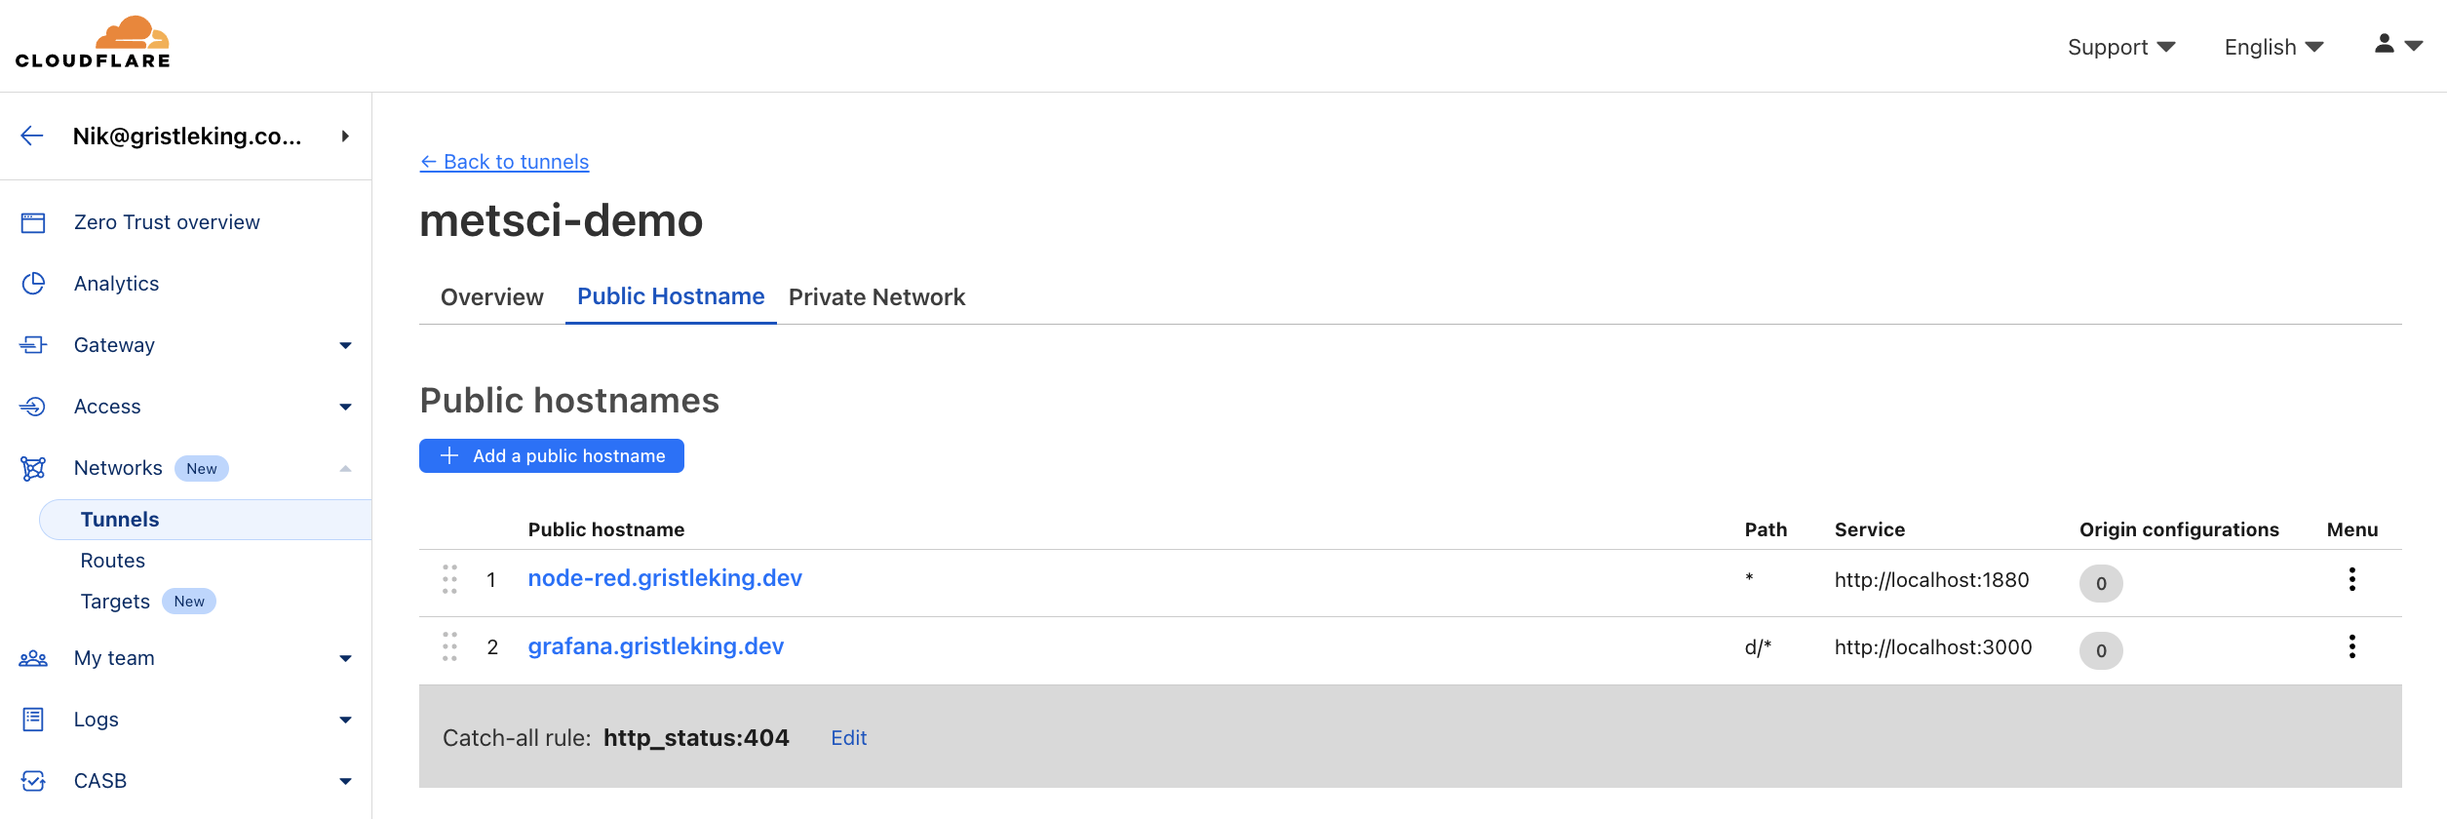
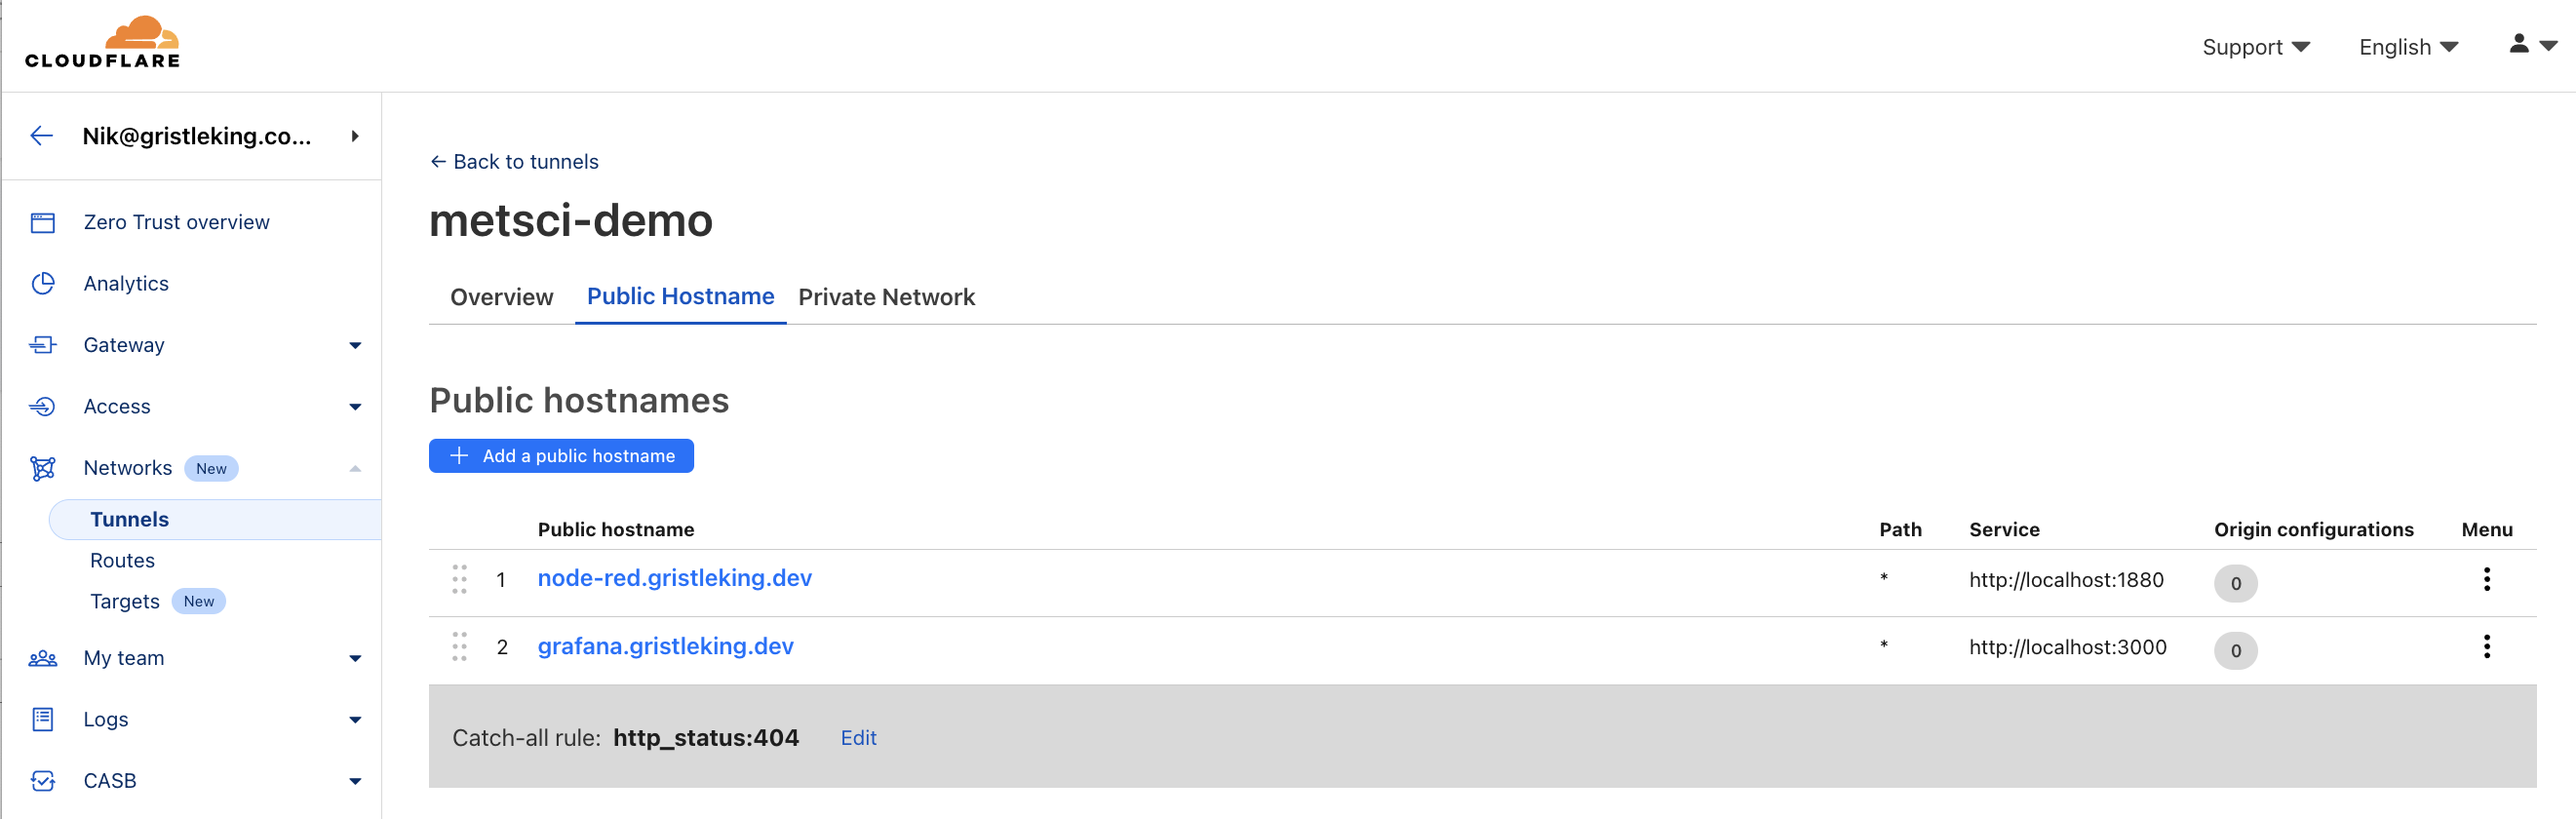
updated subdomain for grafana

diff --git a/docs/tutorial-extras/004-metsci-demo-dash.md b/docs/tutorial-extras/004-metsci-demo-dash.md
@@ -243,25 +243,21 @@ Nice work, you've set up the major components of your dashboard.  Now let's set 
 
 ## 3. **Cloudflare:** Tunnels, Applications, and Tokens
 
-Cloudflare provides a secure connection called a "tunnel" between your Pi and the internet.  Within a tunnel will be different public hostnames for different services, like one for Node-RED to send data there from the MetSci LNS.  You could also setup a public hostname for Grafana to display data from your Pi onto a public dashboard, or something directly to InfluxDB.
+Cloudflare provides a secure connection called a "tunnel" between your Pi and the internet.  Within a tunnel will be different public hostnames for different services, like `node-red.gristleking.dev` for Node-RED and `grafana.gristleking.dev` for Grafana.  We'll use those to connect our Pi to the internet in a secure way.
 
-For this tutorial, we're going to set up two public hostnames, one for Node-RED and one for Grafana.  
+Think of a tunnel like a big PVC pipe that connects your Pi to the internet.  Within that pipe are lots of little plastic straws that carry separate types of information to different places.  Each straw is a public hostname in the tunnel, and within those straws you'll split it out further into different Applications that manage the data from different types of sensors. 
 
-We're not going to set one up for InfluxDB (because it's not needed).  The point here is to expose you a bit to what you can do with Cloudflare.
+For this tutorial, we're going to set up two public hostnames, one for Node-RED and one for Grafana. 
 
-Ok, back to tunnels.  Think of a tunnel like a big PVC pipe that connects your Pi to the internet.  Within that pipe are lots of little straws that carry separate types of information.  Each straw is a public hostname in the tunnel, and within those straws you'll have different types of data (from different types of sensors) moving through.  Each type of data needs to get authenticated before it can get sent through the straw; it needs a token to authenticate it.
-
-Within a public hostname, each sensor type you set up in MetSci will need its own token to keep the http integration secure.  
+### A. Set Up Zero Trust
 
 To start this off, login to [Cloudflare](https://www.cloudflare.com/). I'm assuming you've already set up your domain with Cloudflare, so when you log in you'll see something like this:
 
 ![Cloudflare Dashboard](/images/tutorial-extras/004-images/cloudflare-dashboard.png)
 
-### A. Set Up Zero Trust
+You'll need to set up your Zero Trust account in Cloudflare (relax, it's free).  
 
-You'll need to set up your Zero Trust account in Cloudflare (yes, you can use the free option.)  
-
-If you haven't set up Zero Trust yet, you may not see "Zero Trust" in your menu.  If that's the case, navigate to your domain name, look for `Access` in the left menu, then hit the `Launch Zero Trust` blue button on the right, then click it and set up ZT.
+If you haven't set up Zero Trust yet, you may not see "Zero Trust" in your menu.  If that's the case, navigate to your domain name, look for `Access` in the left menu, then hit the `Launch Zero Trust` blue button on the right, then click it and set up Zero Trust.
 
 ![Cloudflare Zero Trust](/images/tutorial-extras/004-images/set-up-zero-trust.png)
 
@@ -273,25 +269,32 @@ With Zero Trust on and ready to go, let's set up the Pi.
 
 ### B. Prepare Your Pi for Cloudflare
 
-In the Pi terminal, install Cloudflare Tunnel. As always, kick things off with a system update:
+In the Pi terminal, install Cloudflare Tunnel.  It's good practice when you're adding anything to your Pi to kick things off with a system update:
+
 ```bash
 sudo apt update && sudo apt upgrade -y
 ```
-Next, download the Cloudflare binary to the Pi.  I'm running a Pi 4B with 64-bit ARM architecture (use `uname -m` to check yours if you're unsure)
+
+Now that the Pi is cleaned & ready, download the Cloudflare binary to the Pi.  I'm running a Pi 4B with 64-bit ARM architecture (use `uname -m` to check yours if you're unsure), so here's the command I'm using:
+
 ```bash
 wget https://github.com/cloudflare/cloudflared/releases/latest/download/cloudflared-linux-arm64 -O cloudflared
 ```
+
 That may take a few minutes depending on your connection speed.
 
 When it's done, let's do a few nerdy things (making the binary executable, moving it to a system path, then verifying the installation).
+
 Make it executable:
 ```bash
 chmod +x cloudflared
 ```
+
 Move it to a system directory:
 ```bash
 sudo mv cloudflared /usr/local/bin/cloudflared
 ```
+
 Verify the installation:
 ```bash
 cloudflared --version
@@ -309,16 +312,16 @@ Back in your Cloudflare account, in Zero Trust, go to `Networks --> Tunnels --> 
 
 ![Zero Trust Network Tunnels](/images/tutorial-extras/004-images/zero-trust-networks-tunnels.png)
 
-On the next page (not shown here), select `Cloudflared`, **NOT** `WARP Connector`, then choose a tunnel name.
+On the next page (not shown here), select `Cloudflared`, **NOT** `WARP Connector`, then choose a tunnel name.  I'll use `metsci-demo` for mine.
 
 ![Name your Cloudflare tunnel](/images/tutorial-extras/004-images/choose-tunnel-name.png)
 
-Save it and you'll be taken to the Configure page.  Go down to `Install and Run Connector` and copy the one on the right.
+Save the tunnel and you'll be taken to the `Configure` page.  Look for the `Install and Run Connector` section and copy the command on the right.
 
 ![Install and run connector](/images/tutorial-extras/004-images/install-and-run-connector.png)
 
 ### D. Add The Tunnel To Your Raspberry Pi
-We've already installed Cloudflare on our Pi, so on your Pi just run the command they gave us:
+Back on your Pi, run the command they gave us:
 
 `sudo cloudflared service install super-duper-alpha-numeric-string`
 
@@ -336,7 +339,7 @@ That should give you something like this:
 
 ![Cloudflare tunnel running on Pi](/images/tutorial-extras/004-images/cloudflare-tunnel-running.png)
 
-You can use `CTRL-C` on a Mac to stop the output; it won't stop the tunnel.
+You can use `CTRL-C` to get back to a prompt.
 
 ### E. Setting Up Applications
 
@@ -346,7 +349,7 @@ Hit `Next` at the bottom right of your Cloudflare Configure tunnel screen.
 
 #### 1. Node-RED
 
-Add `node-red` in the Subdomain field, choose your domain (I'm using `gristleking.dev`)
+Now we'll set up the Node-RED application.  Add `node-red` in the Subdomain field and choose your domain. I'm using `gristleking.dev` for this tutorial.  Throughout the tutorial, wherever you see `gristleking.dev`, replace it with your own domain.
 
 For Type choose `HTTP`, then set the URL to `localhost:1880`.
 
@@ -358,21 +361,24 @@ You'll be taken back to the Tunnels page.  Click on the three stacked dots on th
 
 ![Adding a new public hostname to a Cloudflare Tunnel](/images/tutorial-extras/004-images/cloudflare-add-route-to-tunnel.png)
 
-Now select `Public Hostname` and click `Add a public hostname`.
+Now we'll set up the Grafana public hostname.
+
+#### 2. Grafana
+
+Select `Public Hostname` and click `Add a public hostname`.
 
 ![Add a new public hostname](/images/tutorial-extras/004-images/cloudflare-select-add-public-hostname-for-new-route.png)
 
-Set it up as follows, noting the new addition of a `Path` using `d/*` to allow access to the Grafana dashboard.
+Set it up the same way you did for Ned-RED, just subbing in `grafana` and the correct port as follows:
 
 ```
 -Subdomain: grafana
 -Domain: <YOUR-DOMAIN>.com
--Path: d/*
 -Type: HTTP
 -URL: localhost:3000
 ```
 
-It should look like this when you're done.  
+It should look like this:  
 
 ![Add the hostname and post for Grafana](/images/tutorial-extras/004-images/cloudflare-add-public-hostname-grafana.png)
 
@@ -383,20 +389,26 @@ You can now see both your public hostnames for your tunnel.  Cool, right?
 ![Confirm both your public hostnames](/images/tutorial-extras/004-images/cloudflare-both-public-hostnames-added.png)
 
 
-### F. Check Your Subdomain in Cloudflare
 Head back to the Cloudflare main menu and choose your domain, then `DNS`, then look for the subdomain you just set up.  I usually add a note to mine, something like `this is for Node-RED for the MetSci Demo Dash project`, just so future me has a clue as to what's going on. 
 
 ![Add notes to your DNS records](/images/tutorial-extras/004-images/cloudflare-dns-route-note.png)
 
+### F. Application & Token Setup
 #### 1. Node-RED Application & Token
 
-Now that we have our sub-domain of `node-red.gristleking.dev` set up, we'll need to create three things specific for our LDDS75 MetSci LNS Application:
+Now that we have our public hostnames setup, we'll need to create Applications and Tokens to help control access to each.  In general, we don't want the public to have access to our Node-RED instance, but we do want to share our Grafana dashboard with the public.  
+
+Let's start with the Node-RED Application and Token, focusing on what we'll need for the LDDS75.
+
+We'll need three things for this
 
 ```
 1. A Service Token
 2. A Zero Trust Application
 3. An HTTP Integration in MetSci
 ```
+
+Now, the use of the word "Application" can be a bit confusing here, as we have both Cloudflare Applications and MetSci Applications.  
 
 Remember, a `MetSci Application` is a group of sensors that share the same data structure.  If you were monitoring 30 rainwater tanks with 30 LDDS75 sensors, all of the sensors would be in one MetSci Application, which would map to one `Cloudflare Application`.  
 
@@ -534,8 +546,8 @@ Scroll down to the bottom and click `Next` to proceed to the `Policies` section.
 
 Add a policy with the following:
 ```
-Policy name: Service Auth
-Action: Service Auth
+Policy name: Token Auth
+Action: Allow
 Session Duration: Same as application session timeout
 
 Scroll down and
